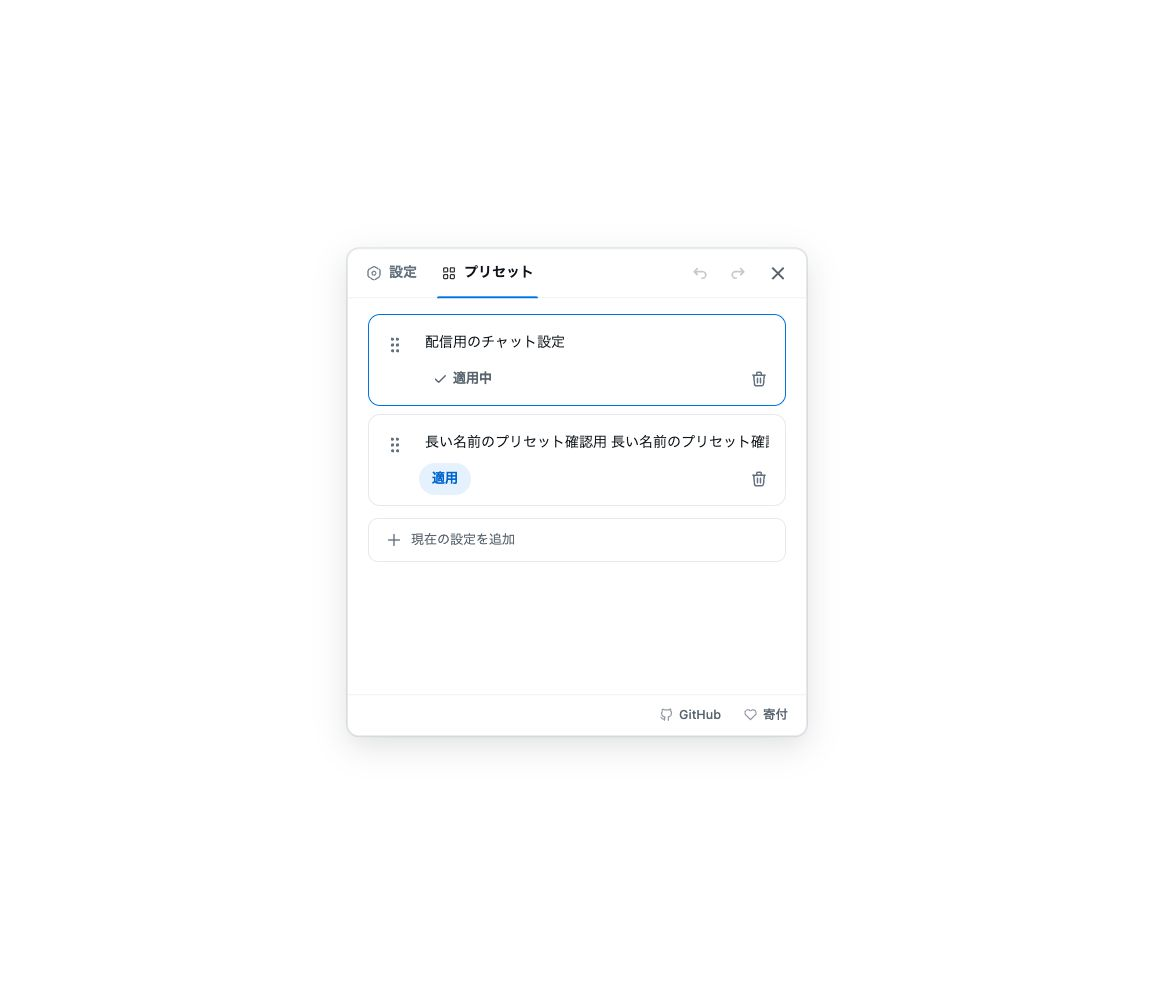
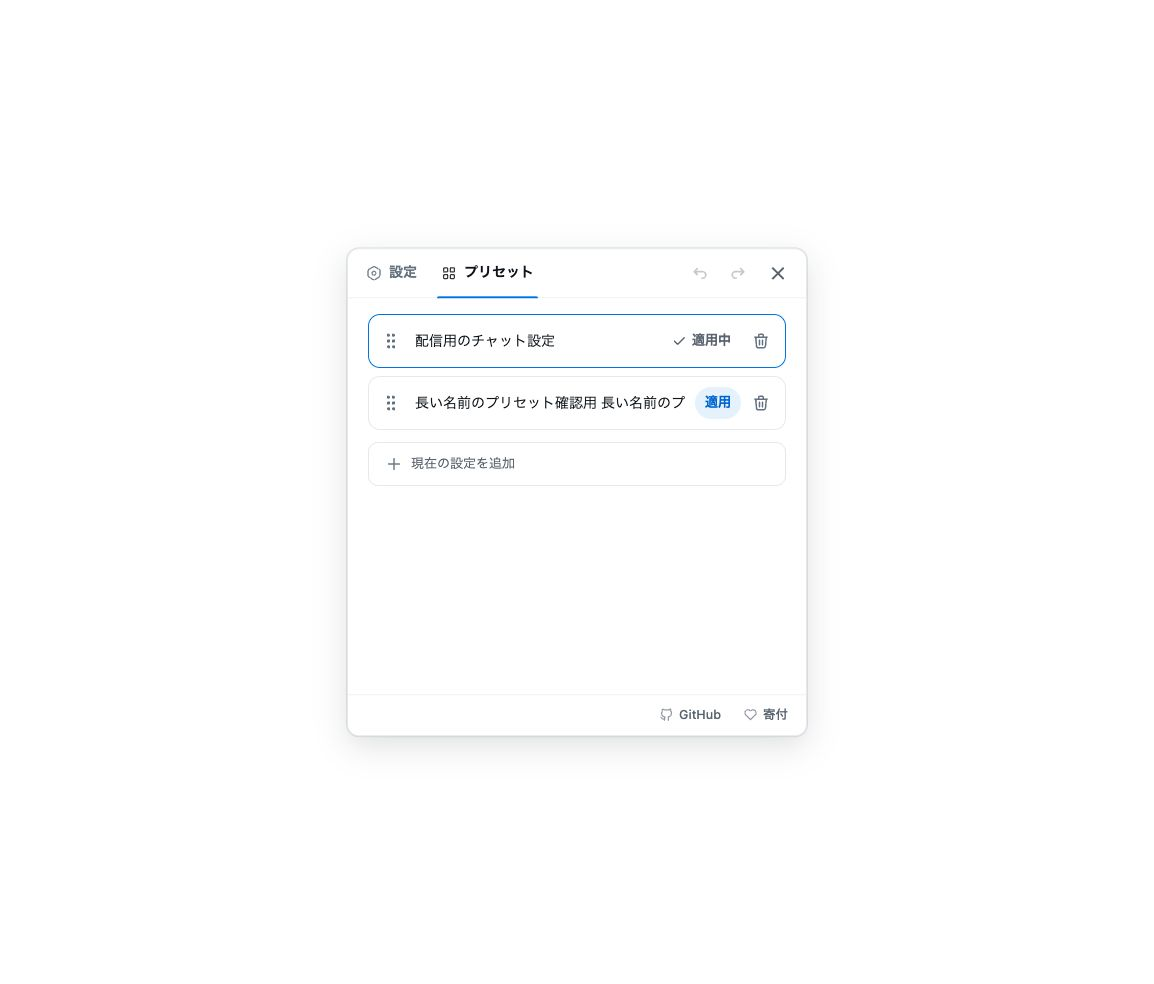
fix(presets): keep desktop preset rows compact

Changed region(s): [[0.312, 0.3354, 0.6863, 0.5488], [0.5927, 0.3354, 0.6239, 0.3659]]

diff --git a/shared/styles/controls.css b/shared/styles/controls.css
@@ -1592,11 +1592,11 @@ label.ylc-row:has(:focus-visible) {
 /* Preset card */
 .ylc-preset {
   display: grid;
-  grid-template-columns: 32px minmax(0, 1fr);
-  align-items: start;
-  gap: 4px 8px;
+  grid-template-columns: 28px minmax(0, 1fr) auto;
+  align-items: center;
+  gap: 4px;
   margin: 8px 12px;
-  padding: 10px;
+  padding: 6px 8px;
   border: var(--ylc-border-width) solid var(--ylc-border);
   border-radius: var(--ylc-radius-xl);
   background: var(--ylc-bg-surface);
@@ -1610,12 +1610,11 @@ label.ylc-row:has(:focus-visible) {
 }
 
 .ylc-preset-grip {
-  grid-row: 1 / span 2;
   flex-shrink: 0;
   display: inline-flex;
   align-items: center;
   justify-content: center;
-  width: 32px;
+  width: 28px;
   height: 40px;
   touch-action: none;
   padding: 0;
@@ -1660,12 +1659,10 @@ label.ylc-row:has(:focus-visible) {
 }
 
 .ylc-preset-actions {
-  grid-column: 2;
-  display: flex;
+  grid-column: 3;
+  display: inline-flex;
   align-items: center;
-  justify-content: space-between;
-  flex-wrap: wrap;
-  gap: 8px;
+  gap: 4px;
   min-width: 0;
 }
 
@@ -1674,7 +1671,7 @@ label.ylc-row:has(:focus-visible) {
   align-items: center;
   gap: 5px;
   height: 32px;
-  padding: 0 13px;
+  padding: 0 10px;
   border: 0;
   border-radius: 9999px;
   background: var(--ylc-accent-soft);

diff --git a/docs/architecture/overlay-and-styling.md b/docs/architecture/overlay-and-styling.md
@@ -172,4 +172,4 @@ Required checks are described in [Testing contracts](../testing/contracts.md). I
 
 Preset deletion confirmations group the heading and description without horizontal dividers. The heading and actions share 20px side insets, with 20px above the heading, 8px above the actions, and 16px below the actions. The description retains its own keyboard-scrollable region while the heading and actions stay visible in short viewports.
 
-Preset cards use two rows at all input sizes: the single-line editable name occupies the available first row, and Apply/current state and Delete share the second row. The reorder handle spans both rows at the inline start. A native title exposes the full saved name without changing editing or truncation behavior. The add-current-settings action aligns its label to the inline start and has a minimum 44px target.
+Preset cards keep the reorder handle, editable name, Apply/current state, and Delete on one compact row. The name takes the remaining width. Only narrow coarse-pointer layouts move the actions to a second row to preserve touch targets and translated labels. A native title exposes the full saved name without changing editing or truncation behavior. The add-current-settings action aligns its label to the inline start and has a minimum 44px target.
